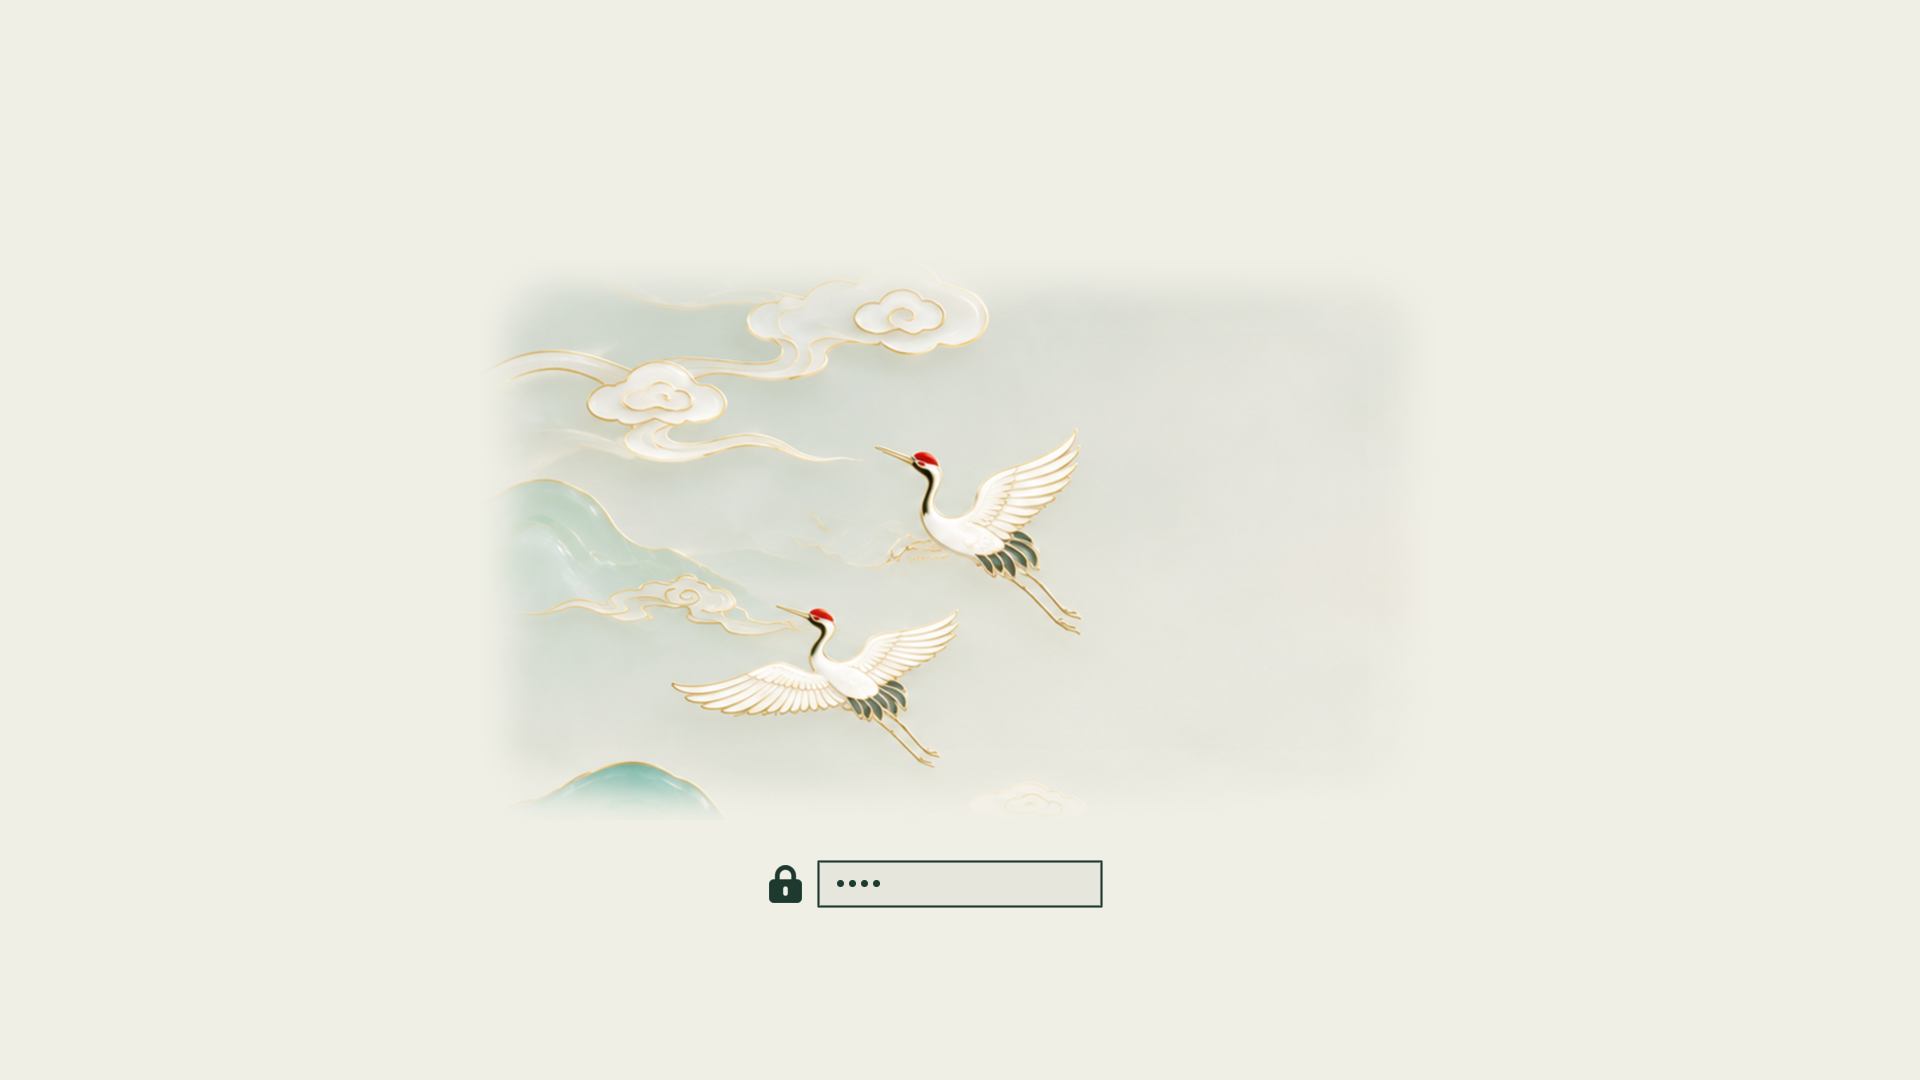
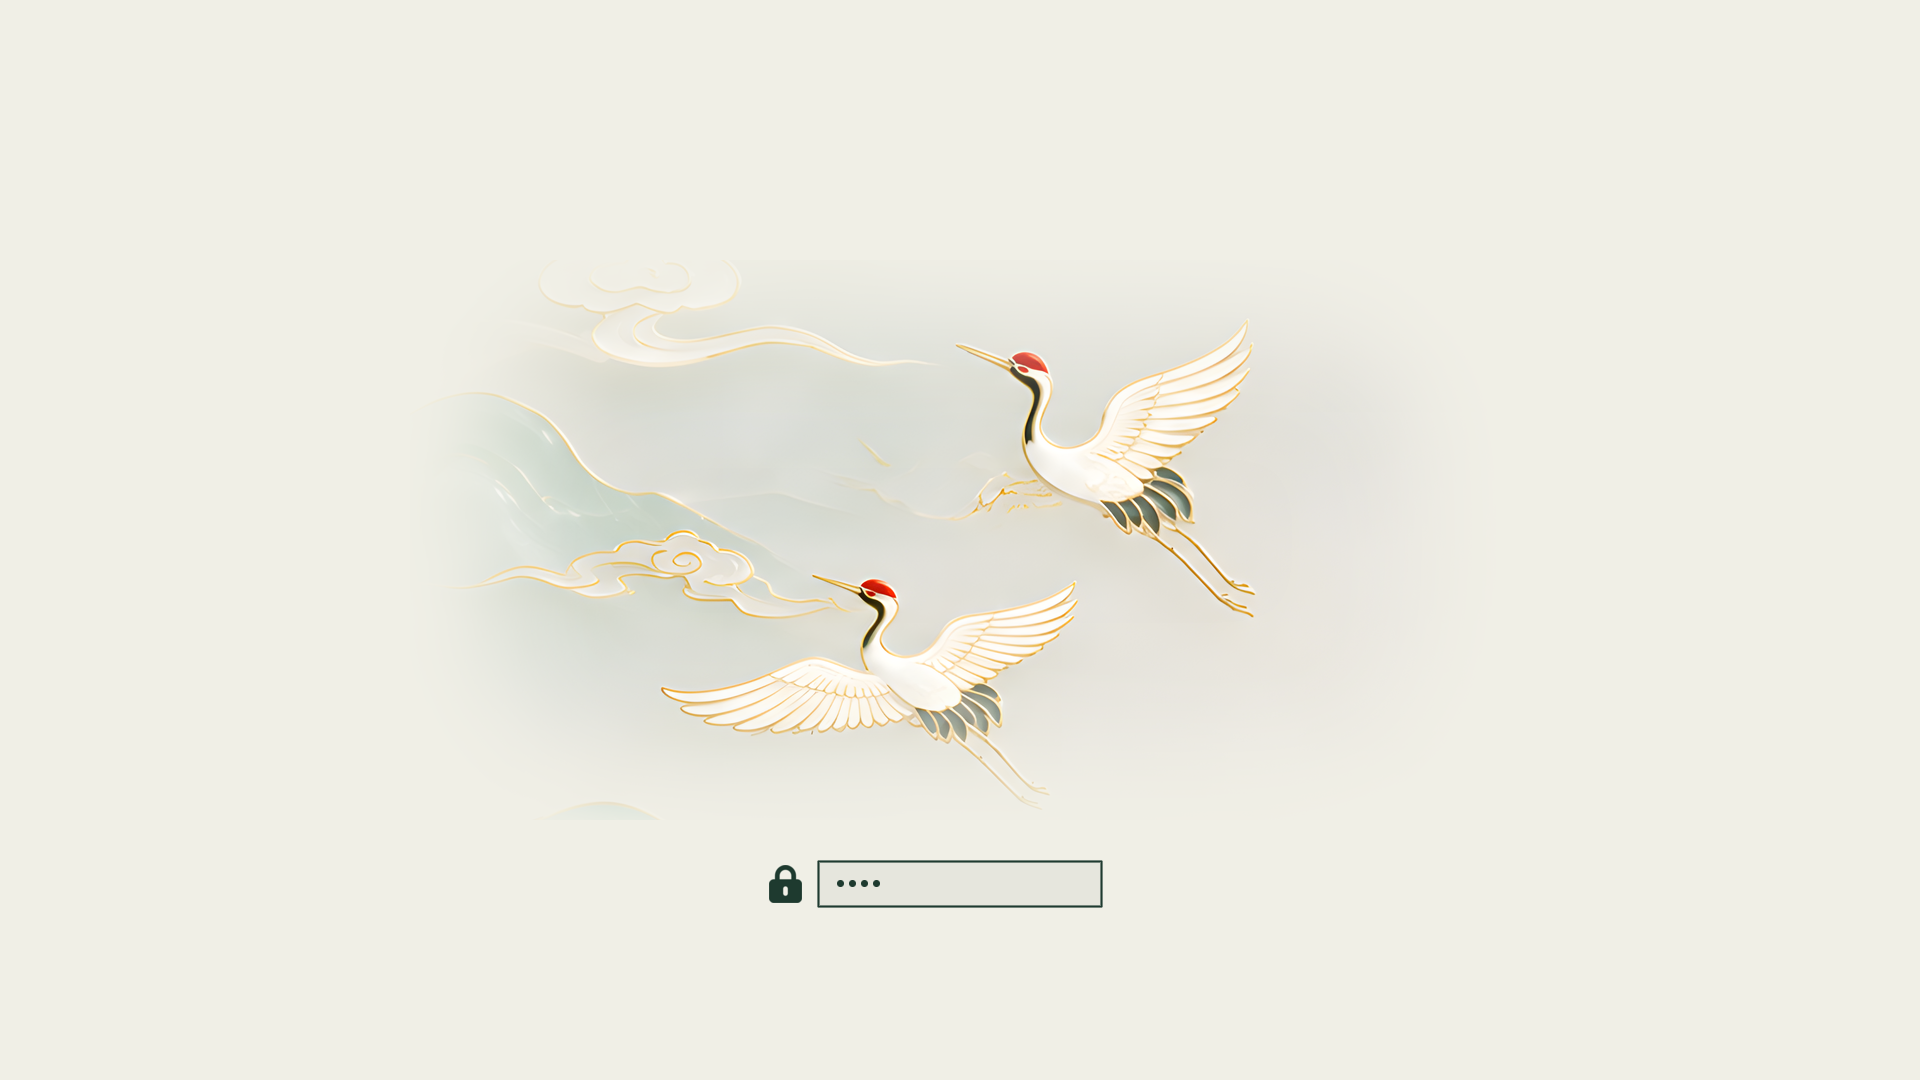
Bring Jade Crane up to state of the art
- Palette: all ANSI colors reach WCAG AA (4.5:1, brights 3.5:1); yellow,
  orange and brown are now distinct hues.
- selection_background is a solid jade so gum Yes/No buttons, menus and
  terminal selection show the active item clearly.
- Wallpaper upscaled 4x to 6688x3764 with Real-ESRGAN, shipped as WebP,
  plus a 21:9 crane crop and a recolored Omarchy logo wallpaper.
- unlock.png is a transparent feathered crop for the boot and login screen;
  preview-unlock.png rendered with omarchy plymouth preview.
- New preview.png; light.mode added for older Omarchy releases.

Changed region(s): [[0.25, 0.275, 0.6562, 0.7028], [0.2812, 0.7028, 0.375, 0.7639], [0.625, 0.5194, 0.6562, 0.5806]]

diff --git a/README.md b/README.md
@@ -16,28 +16,44 @@ Or via **Install → Style → Theme** and paste that URL.
 
 ## Palette
 
-| Role | Hex | Swatch |
+| Role | Hex | Note |
 | --- | --- | --- |
 | Background | `#f0efe6` | parchment mist |
-| Dark background | `#e3e2d6` | |
-| Accent | `#2f7a56` | deep jade |
-| Foreground | `#1e3a2f` | forest ink |
-| Selection | `#c5d6c9` | pale jade |
-| Muted | `#556b60` | |
-| Gold / yellow | `#7a5f24` | bronze leaf |
-| Bright gold | `#9a7830` | |
-| Crane red | `#c43a30` | |
+| Foreground | `#1e3a2f` | forest ink, 10.7:1 |
+| Accent | `#2f7a56` | deep jade, 4.5:1 |
+| Active item | `#74b08e` / `#142820` | gum Yes/No, menus, terminal selection |
+| Soft selection | `#c5d6c9` | btop rows, sidebars |
+| Muted | `#556b60` | 5.0:1 |
+| Red | `#c43a30` | crane crown |
+| Yellow | `#806200` | gold leaf |
+| Orange | `#a35214` | |
+| Brown | `#7a4e30` | pine bark |
 
-Full ANSI palette in [`colors.toml`](colors.toml). Icons are `Yaru-sage`.
+Every normal ANSI color is at least 4.5:1 on the background (WCAG AA for text),
+and every bright color at least 3.5:1. Yellow, orange and brown are separate
+hues, so they read differently in `git`, `ls` and prompts. Full palette in
+[`colors.toml`](colors.toml). Icons are `Yaru-sage`.
 
-## Wallpaper
+## Wallpapers
+
+| File | Size | |
+| --- | --- | --- |
+| `01-jade-crane.webp` | 6688×3764 | the full landscape |
+| `02-crane-flight.webp` | 3800×1628 | 21:9 crop of the cranes, open sky on the right for windows |
+| `omarchy.webp` | 3840×2160 | Omarchy logo in jade on parchment |
 
 Cycle with `Super + Ctrl + W`. Art notes and license details are in
 [CREDITS.md](CREDITS.md).
 
-## Unlock
+## Boot and login screen
 
-Ships `unlock.png` (cropped from the wallpaper) for **Appearance → Unlock**.
+`unlock.png` is a transparent, feathered crop of the cranes, so it blends into
+the parchment background on the disk-unlock and login screens. Pick it under
+**Style → Unlock**, or run:
+
+```bash
+omarchy plymouth set by theme jade-crane
+```
 
 ## License
 

diff --git a/CREDITS.md b/CREDITS.md
@@ -2,19 +2,23 @@
 
 ## Wallpaper
 
-`backgrounds/jade-crane.png` is the Guofeng (国风) jade-mountain landscape that
-inspired this theme: celadon mist, carved emerald peaks, gold-leaf ridges,
-red-crowned cranes, and a distant pavilion.
+The wallpapers in `backgrounds/` come from one Guofeng (国风) jade-mountain
+landscape: celadon mist, carved emerald peaks, gold-leaf ridges, red-crowned
+cranes, and a distant pavilion.
 
 It was provided by the theme author for redistribution with this theme under
-the same MIT license as the palette and packaging files. If you fork the theme
-and replace the wallpaper, update this file.
+the same MIT license as the palette and packaging files. The 1672×941 source
+was upscaled 4× with [Real-ESRGAN](https://github.com/xinntao/Real-ESRGAN)
+(`realesrgan-x4plus`) to 6688×3764, the resolution of Omarchy's stock
+wallpapers. `02-crane-flight.webp` and `unlock.png` are crops of that upscale.
+`omarchy.webp` recolors Omarchy's logo wallpaper to this palette. If you fork
+the theme and replace the wallpaper, update this file.
 
 ## Palette
 
 Colors were sampled from the wallpaper (jade greens `#469e72`–`#2f7a56`, gold
-`#b8954f` / bronze `#7a5f24`, crane vermilion `#c43a30`, parchment
-`#f0efe6`) and tuned for Omarchy light-mode contrast on cream UI chrome.
+`#b8954f` / bronze `#806200`, crane vermilion `#c43a30`, parchment
+`#f0efe6`) and tuned to WCAG AA contrast on the parchment background.
 
 ## Icons
 
